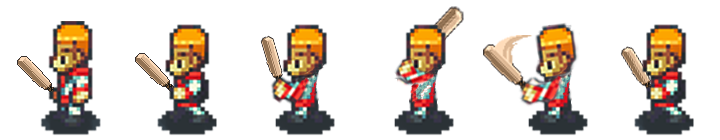
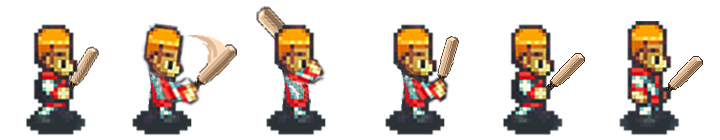
flip issue and animation, sometimes

diff --git a/Assets/Scripts/Skills/Skill.cs b/Assets/Scripts/Skills/Skill.cs
@@ -19,7 +19,7 @@ public class Skill : MonoBehaviour {
         attack.GetComponent<Attack>().direction = character.AimDirection;
         attack.GetComponent<Attack>().character = gameObject.GetComponent<Character>();
         GetComponent<Animator>().SetBool(triggerName, true);
-        GetComponent<SpriteRenderer>().flipX = !GetComponent<SpriteRenderer>().flipX;
+       
         if (GetComponent<AudioSource>()!=null && skillSound!=null)
         { 
         GetComponent<AudioSource>().PlayOneShot(skillSound);
@@ -28,8 +28,12 @@ public class Skill : MonoBehaviour {
     }
     private IEnumerator WaitAndStopAnimation()
     {
-        yield return new WaitForSeconds(timeAnimation);
+        float startTime = Time.fixedTime;
+        while(Time.fixedTime-startTime<timeAnimation)
+        {
+            yield return null;
+        }
         GetComponent<Animator>().SetBool(triggerName, false);
-        GetComponent<SpriteRenderer>().flipX = !GetComponent<SpriteRenderer>().flipX;
+     
     }
 }
